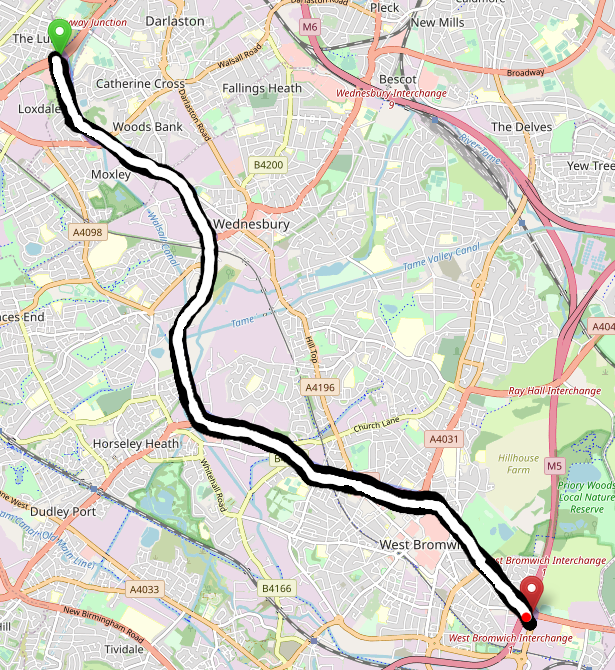
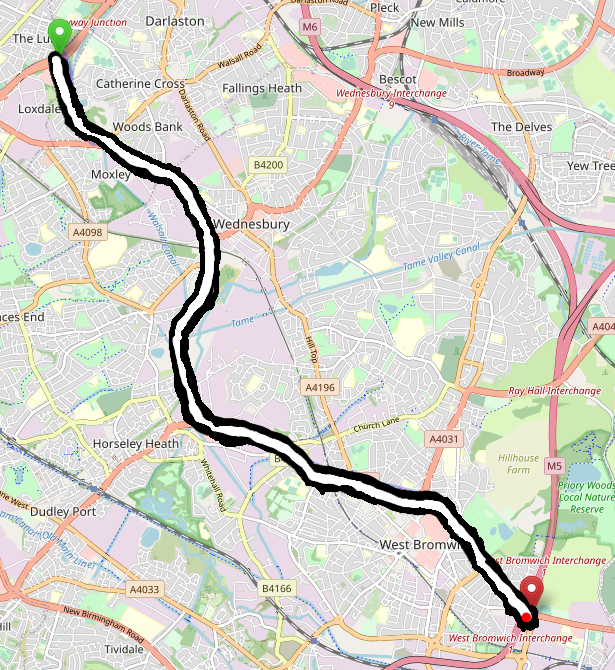
Algorithme de lissage/lissage_naif et nouvelle image

diff --git a/astar.cpp b/astar.cpp
@@ -116,3 +116,131 @@ void AStar::writeFile(std::vector<Pair> &vector, const std::string &filename) {
         std::cout << "Impossible d'écrire le fichier binaire" << std::endl;
     }
 }
+
+// check if any vector is a wall
+bool AStar::isVectorValid(const std::vector<Node *> &vector) const {
+    for (Node *n: vector) {
+        if (n->x < 0 || n->x >= this->map->img->width() || n->y < 0 || n->y >= this->map->img->height() || n->isWall)
+            return false;
+    }
+    return true;
+}
+
+std::vector<Node *> AStar::bresenham(Node *n1, Node *n2) const {
+    std::vector<Node *> nodes;
+    int x1 = n1->x;
+    int y1 = n1->y;
+    int x2 = n2->x;
+    int y2 = n2->y;
+
+    int delta_x(x2 - x1);
+    signed char const ix((delta_x > 0) - (delta_x < 0));
+    delta_x = std::abs(delta_x) << 1;
+
+    int delta_y(y2 - y1);
+    signed char const iy((delta_y > 0) - (delta_y < 0));
+    delta_y = std::abs(delta_y) << 1;
+
+    nodes.push_back(this->map->getNode(x1, y1));
+
+    if (delta_x >= delta_y) {
+        int error(delta_y - (delta_x >> 1));
+
+        while (x1 != x2) {
+            if ((error > 0) || (!error && (ix > 0))) {
+                error -= delta_x;
+                y1 += iy;
+            }
+            error += delta_y;
+            x1 += ix;
+
+            nodes.push_back(this->map->getNode(x1, y1));
+        }
+    } else {
+        int error(delta_x - (delta_y >> 1));
+
+        while (y1 != y2) {
+            if ((error > 0) || (!error && (iy > 0))) {
+                error -= delta_y;
+                x1 += ix;
+            }
+            error += delta_x;
+            y1 += iy;
+
+            nodes.push_back(this->map->getNode(x1, y1));
+        }
+    }
+    return nodes;
+}
+
+std::vector<Node *> *AStar::lissage_naive(std::vector<Node *> *path) const {
+    std::reverse(path->begin(), path->end());
+    auto *newPath = new std::vector<Node *>();
+    newPath->reserve(path->size());
+
+    Node *currentNode = (*path)[0];
+
+    for (int i = 1; i < path->size(); i++) {
+        auto tmp = bresenham(currentNode, (*path)[i]);
+        int tmp_j = i;
+        for (int j = i + 1; j < path->size(); j++) {
+            Node *nextNode = (*path)[j];
+            auto vec_nodes = bresenham(currentNode, nextNode);
+            if (isVectorValid(vec_nodes)) {
+                tmp = vec_nodes;
+                tmp_j = j;
+            }
+        }
+        for (Node *n: tmp) {
+            newPath->push_back(n);
+        }
+        currentNode = (*path)[tmp_j];
+        i = tmp_j;
+    }
+    return newPath;
+}
+
+std::vector<Node *> *AStar::lissage(std::vector<Node *> *path) const {
+    std::reverse(path->begin(), path->end());
+    auto *newPath = new std::vector<Node *>();
+    newPath->reserve(path->size());
+    newPath->push_back((*path)[0]);
+
+    Node *currentNode = (*path)[0];
+    int next_i = 1;
+    for (int i = 1; i < path->size(); i++) {
+        Node *nextNode = (*path)[i];
+
+        // Si le on peut tracer une ligne entre les deux noeuds
+        // alors on essaye sur le suivant sinon on retourne sur le précédent
+        auto vec_nodes = bresenham(currentNode, nextNode);
+        while (isVectorValid(vec_nodes)) {
+            if (next_i + 1 < path->size()) {
+                // On test avec le suivant
+                nextNode = (*path)[next_i + 1];
+                vec_nodes = bresenham(currentNode, nextNode);
+
+                // et on garde une trace de l'indice du noeud
+                next_i++;
+            } else {
+                for (Node *n: vec_nodes) {
+                    newPath->push_back(n);
+                }
+                std::reverse(newPath->begin(), newPath->end());
+                return newPath;
+            }
+        }
+
+        nextNode = (*path)[next_i - 1];
+        vec_nodes = bresenham(currentNode, nextNode);
+
+        // On ajoute les noeuds de la ligne droite dans la nouvelle liste
+        for (Node *n: vec_nodes) {
+            newPath->push_back(n);
+        }
+        i = next_i - 1;
+        currentNode = nextNode;
+    }
+    std::reverse(newPath->begin(), newPath->end());
+    return newPath;
+}

diff --git a/main.cpp b/main.cpp
@@ -30,32 +30,53 @@ int main() {
     std::cout << "Couleur d'arrivee : [" << (int) colors[0] << ", " << (int) colors[1] << ", " << (int) colors[2] << "]"
               << std::endl;
 
+
+    // On charge l'image
     auto img = new cimg_library::CImg<unsigned char>(imagePath.c_str());
 
+    // On crée la matrice
     Map *map = new Map(img, colors);
 //    map->print();
 
+    // On crée l'objet A* et on lui passe la matrice et les coordonnées de départ
     AStar astar = AStar(start, map);
+
+    // On lance l'algorithme A*
     auto *path = astar.aStarSearch();
 
     if (path == nullptr) {
-        std::cout << "Aucun chemin trouve" << std::endl;
+        std::cout << "Aucun chemin trouvé" << std::endl;
+        delete map;
         return 1;
     }
 
-    auto *speedVector = astar.nodesToSpeedVector(path);
+    // Nécessaire pour free les chemins précédents
+    std::vector<std::vector<Node *> *> ptr_paths;
 
+    std::cout << "Lissage du chemin... ";
+    for (int i = 0; i < 10; i++) {
+        path = astar.lissage(path);
+        ptr_paths.push_back(path);
+    }
+    // Après le lissage, on va lisser avec un lissage naif
+    // qui va faire la plus grande ligne droite
+    path = astar.lissage_naive(path);
+    std::cout << "Terminé." << std::endl;
+
+
+    std::cout << "Transformation des noeuds en vecteur vitesse... ";
+    auto *speedVector = astar.nodesToSpeedVector(path);
+    std::cout << "Terminé." << std::endl;
     AStar::writeFile(*speedVector, "output/" + name + ".bin");
 
-    // write path to image (debug)
-    for (auto &p: *path) {
-        const unsigned char color_mag[] = {170, 0, 255};
-        img->draw_point(p->x, p->y, color_mag);
-    }
-    std::string outputFilename = "output/" + name + ".png";
-    img->save(outputFilename.c_str());
 
     delete map;
     delete speedVector;
+    delete path;
+
+    for (auto ptr: ptr_paths) {
+        delete ptr;
+    }
+
     return 0;
 }

diff --git a/astar.h b/astar.h
@@ -38,6 +38,14 @@ public:
 
     static void writeFile(std::vector<Pair> &vector, const std::string &filename);
 
+    bool isVectorValid(const std::vector<Node *> &vector) const;
+
+    std::vector<Node *> bresenham(Node *n1, Node *n2) const;
+
+    std::vector<Node *> *lissage(std::vector<Node *> *path) const;
+
+    std::vector<Node *> *lissage_naive(std::vector<Node *> *path) const;
+
     void pushOpen(Node *node) {
         this->openList.push_back(node);
         std::push_heap(this->openList.begin(), this->openList.end(), compareNodes());
